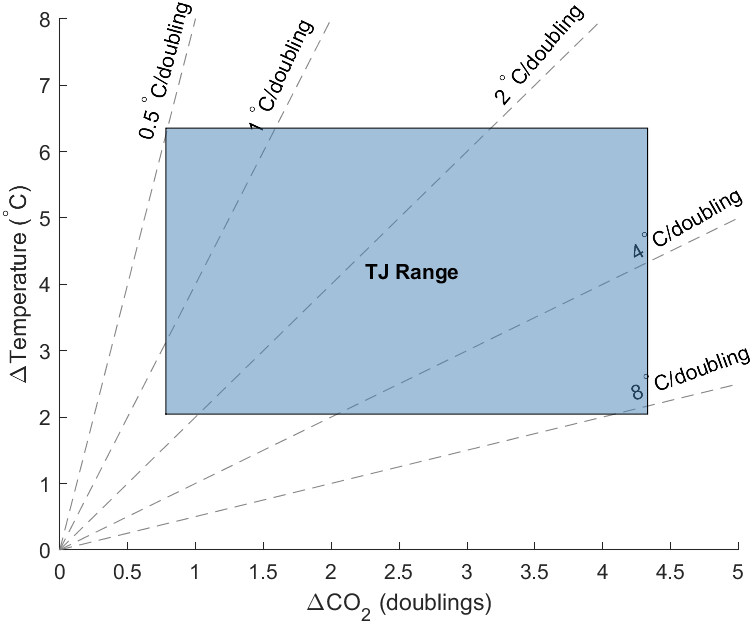
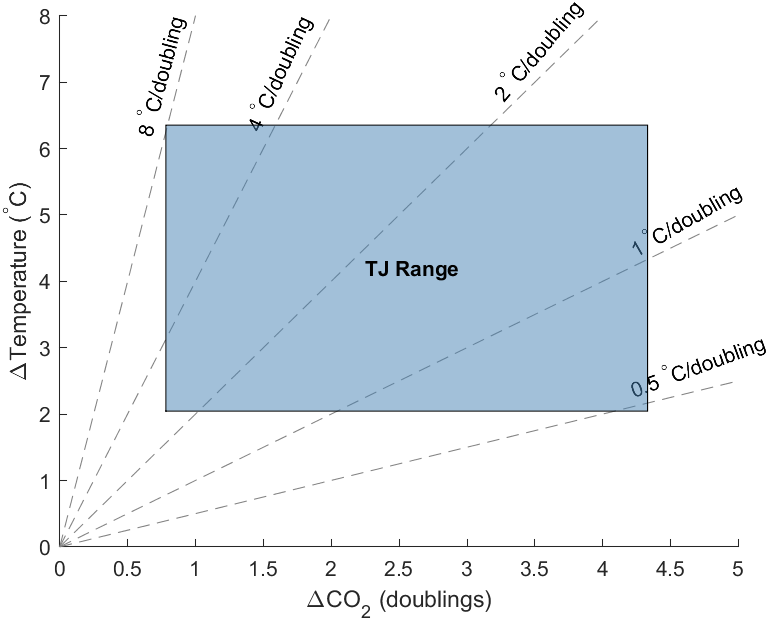
Corrected labels on Climate_Sensitivity plot, and added a probabilitic version.

diff --git a/Trudgill_et_al_202X/Code/Plots/Climate_Sensitivity.m b/Trudgill_et_al_202X/Code/Plots/Climate_Sensitivity.m
@@ -61,10 +61,37 @@ co2_change_uncertainties = [co2_change_distribution.quantile(0.025),co2_change_d
 temperature_change_median = temperature_change_distribution.median();
 temperature_change_uncertainties = [temperature_change_distribution.quantile(0.025),temperature_change_distribution.quantile(0.975)];
 
+%%
+climate_sensivity = temperature_change_sampler.samples./co2_change_sampler.samples;
+climate_sensitivity_distribution = Geochemistry_Helpers.Distribution().fromSamples(0:0.1:20,climate_sensivity).normalise();
+
+temperature_change_axis_matrix = repmat(temperature_change_distribution.bin_midpoints,numel(co2_change_distribution.probabilities),1);
+temperature_change_probability_matrix = repmat(temperature_change_distribution.probabilities,numel(co2_change_distribution.probabilities),1);
+
+co2_change_axis_matrix = repmat(co2_change_distribution.bin_midpoints,1,numel(temperature_change_distribution.probabilities));
+co2_change_probability_matrix = repmat(co2_change_distribution.probabilities,1,numel(temperature_change_distribution.probabilities));
+
+climate_sensitivity_joint = temperature_change_probability_matrix.*co2_change_probability_matrix;
+
+%%
+colourmap = Geochemistry_Helpers.Colour.Map("b",[Geochemistry_Helpers.Colour.Colour("Crimson","rgb",2),...
+                                                 Geochemistry_Helpers.Colour.Colour("Crimson","rgb",1.8),...
+                                                 Geochemistry_Helpers.Colour.Colour("Orange","rgb",1.2),...
+                                                 Geochemistry_Helpers.Colour.Colour("Khaki","rgb",0.5),...
+                                                 Geochemistry_Helpers.Colour.Colour("White","rgb",0)]);
+expanded_colourmap = colourmap.getColours(100);
+
 %% 
 figure(1);
 clf
 hold on
+
+pcolor_handle = pcolor(co2_change_axis_matrix,temperature_change_axis_matrix,climate_sensitivity_joint);
+colormap(expanded_colourmap.colours.rgb);
+set(pcolor_handle,'EdgeColor','None');
+
+xlabel("\DeltaCO_2 (doublings)");
+ylabel("\DeltaTemperature (^{\circ}C)");
 
 plot([0,5],[0,2.5],'--','Color',[0.5,0.5,0.5]);
 text(4.2,2.4,num2str(2.5/5)+" ^{\circ}C/doubling",'Rotation',20);
@@ -77,13 +104,8 @@ text(1.4,6.3,num2str(20/5)+" ^{\circ}C/doubling",'Rotation',65);
 plot([0,5],[0,40],'--','Color',[0.5,0.5,0.5]);
 text(0.6,6.2,num2str(40/5)+" ^{\circ}C/doubling",'Rotation',75);
 
-patch([co2_change_uncertainties(1),co2_change_uncertainties(1),co2_change_uncertainties(2),co2_change_uncertainties(2)],[temperature_change_uncertainties(1),temperature_change_uncertainties(2),temperature_change_uncertainties(2),temperature_change_uncertainties(1)],Geochemistry_Helpers.Colour.Colour("SteelBlue").rgb,'FaceAlpha',0.5);
-text(2.25,4.2,"TJ Range",'Color',Geochemistry_Helpers.Colour.Colour("Black").darken(1.1).saturate(1.1).rgb,'FontWeight','Bold')
-
-xlabel("\DeltaCO_2 (doublings)");
-ylabel("\DeltaTemperature (^{\circ}C)");
 
 xlim([0,5]);
 ylim([0,8]);
 
-exportgraphics(gcf,"./../../Figures/Climate_Sensitivity.png");
+exportgraphics(gcf,"./../../Figures/Climate_Sensitivity_Probabilistic.png");
